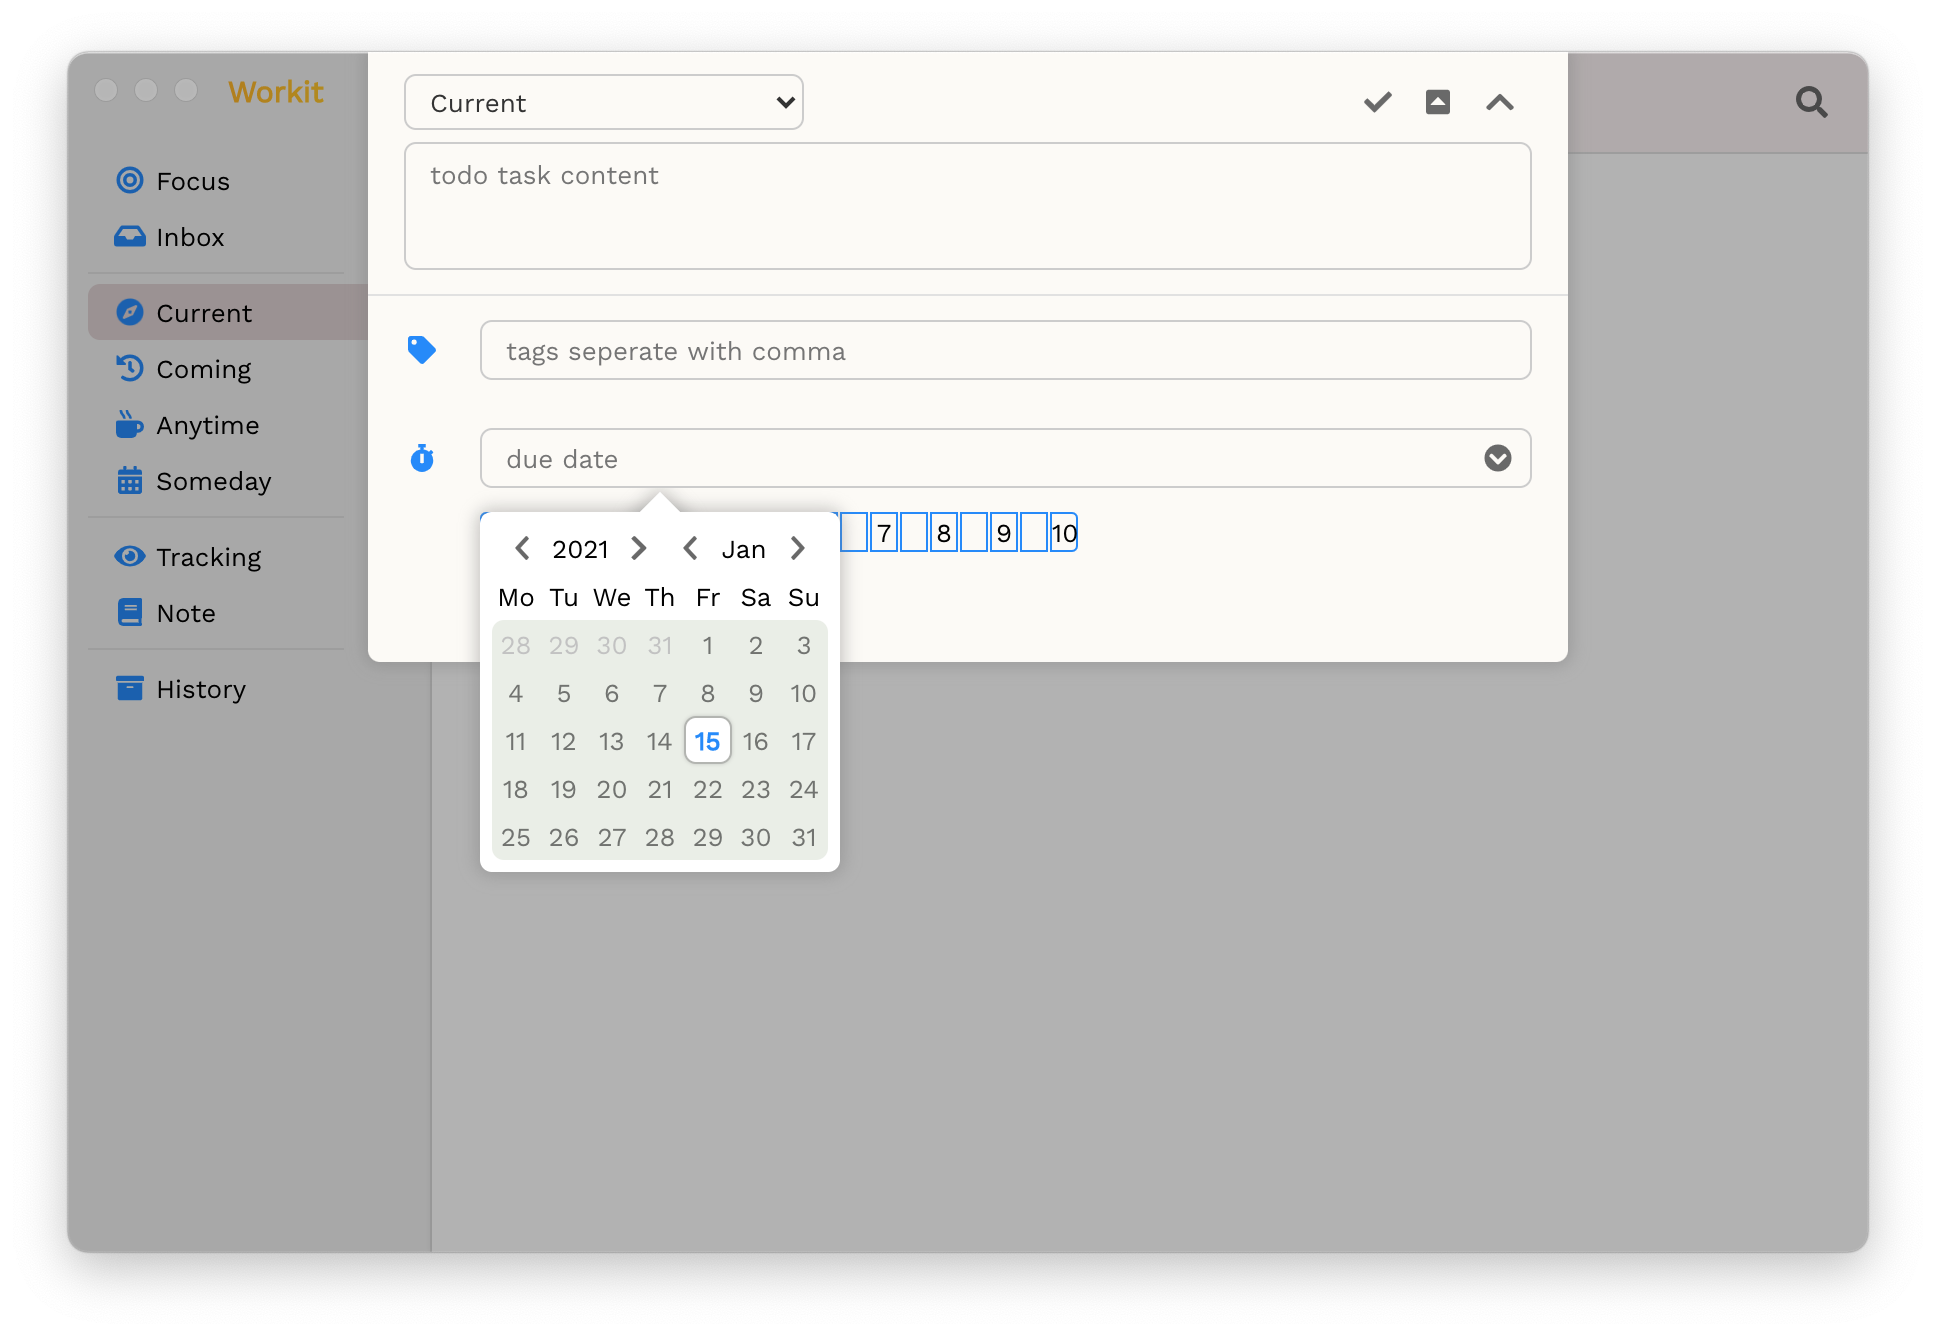
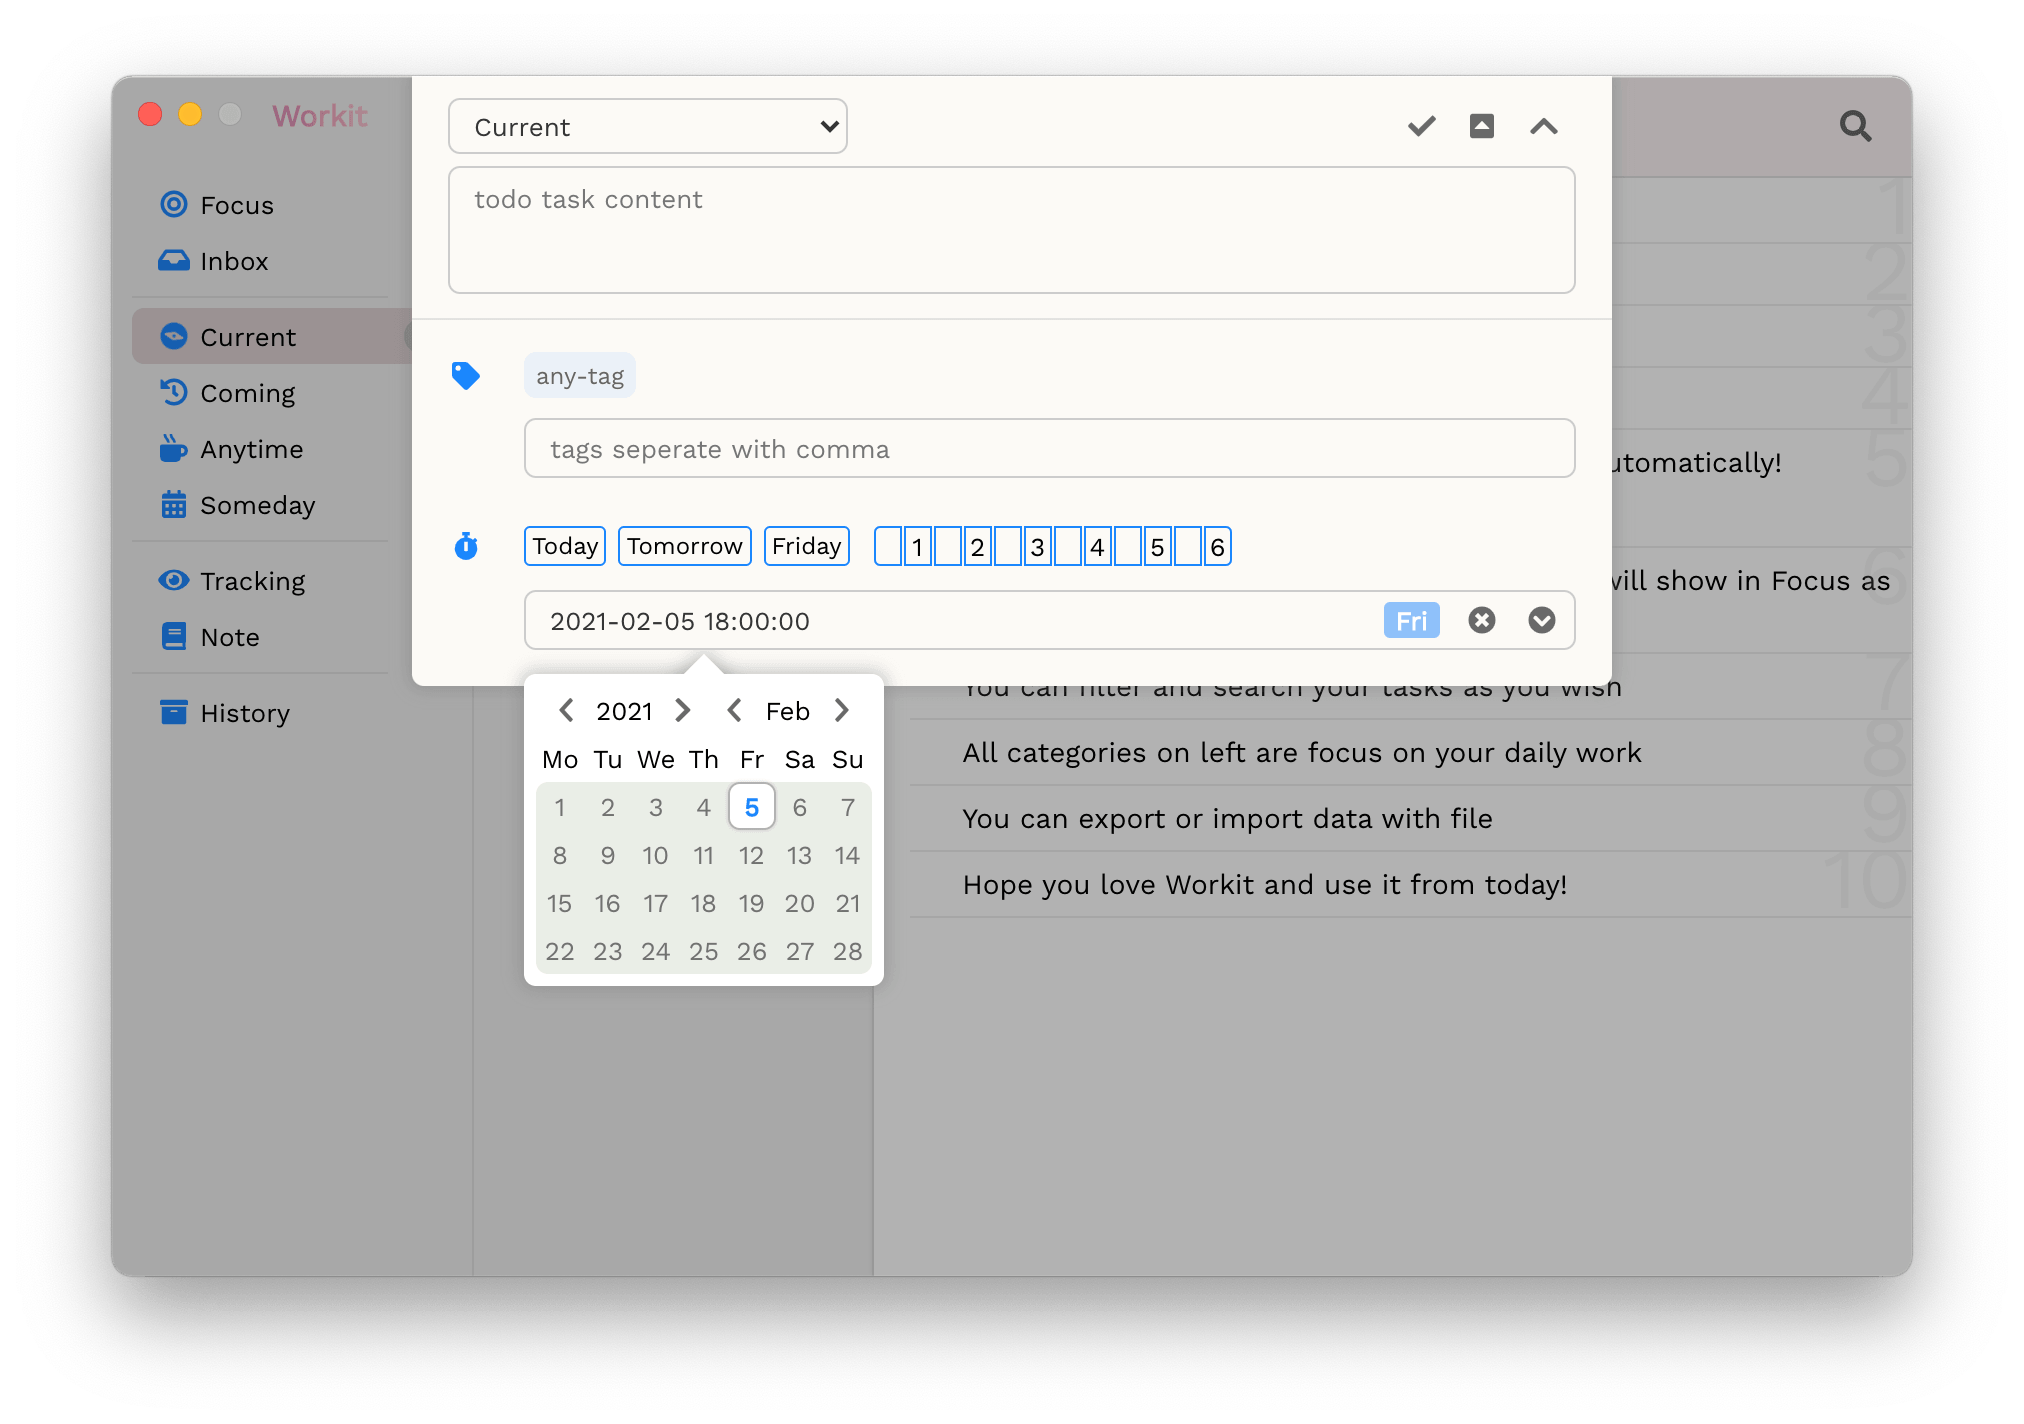
perf: small UE improvements

Changed region(s): [[0.031, 0.0307, 0.9917, 0.9513], [0.4649, 0.6138, 0.7748, 0.6445]]

diff --git a/src/App.vue b/src/App.vue
@@ -43,6 +43,11 @@
               <font-awesome-icon :icon="['fas', 'unlink']" title="Unlink" />
             </div> -->
             <div class="icon-btn btn"
+              v-show="system.tab === 'focus'"
+              @click="goto(item)">
+              <font-awesome-icon :icon="['fas', 'chevron-right']" :title="'Go to ' + item.cat" />
+            </div>
+            <div class="icon-btn btn"
               v-show="item.status === 0 && !item.parentId"
               @click="handleAddSubTask(item)">
               <font-awesome-icon :icon="['fas', 'plus']" title="Add Sub Task" />
@@ -50,22 +55,17 @@
             <div class="icon-btn btn"
               v-show="item.status === 0 && item.parentId"
               @click="becomeMainTask(item)">
-              <font-awesome-icon :icon="['fas', 'eject']" title="Turn into task" />
-            </div>
-            <div class="icon-btn btn lg"
-              v-show="system.tab === 'focus'"
-              @click="goto(item)">
-              <font-awesome-icon :icon="['fas', 'chevron-right']" :title="'Go to ' + item.cat" />
-            </div>
-            <div class="icon-btn btn"
-              v-show="!(item.parentId && item.status === 1)"
-              @click="handleChangeCat($event, item)">
-              <font-awesome-icon :icon="['fas', 'paper-plane']" title="Change Category" />
+              <font-awesome-icon :icon="['fas', 'eject']" title="Become Main Task" />
             </div>
             <div class="icon-btn btn"
               v-show="!(item.parentId && item.status === 1)"
               @click="handleShowEdit(item.cat, item.index)">
               <font-awesome-icon :icon="['fas', 'edit']" title="Edit" />
+            </div>
+            <div class="icon-btn btn"
+              v-show="!(item.parentId && item.status === 1)"
+              @click="handleChangeCat($event, item)">
+              <font-awesome-icon :icon="['fas', 'paper-plane']" title="Change Category" />
             </div>
             <div class="icon-btn btn" @click="handleShowMore($event, item, index)">
               <font-awesome-icon :icon="['fas', 'ellipsis-h']" title="More" />
@@ -886,7 +886,7 @@ export default {
       this.focusIndex = task.index
       let options = [...this.actionOptions]
       if (system.tab === 'focus') {
-        options = options.slice(0, options.length - 2)
+        options = options.filter((o, index) => index !== 1 && index !== 2)
       }
       eventBus.$emit('showPopActions', {
         options,

diff --git a/src/components/AddPanel.vue b/src/components/AddPanel.vue
@@ -62,11 +62,22 @@
             </div>
           </div>
         </div>
-        <div class="row">
+        <div class="row" style="padding-bottom: 0;">
           <div class="icon-image">
             <font-awesome-icon :icon="['fas', 'stopwatch']" />
           </div>
-          <div class="box-input">
+          <div class="box-date-shortcuts">
+            <div class="date-btn" @click="setDueDate('today')">Today</div>
+            <div class="date-btn" @click="setDueDate('tomorrow')">Tomorrow</div>
+            <div class="date-btn" style="margin-right: 12px;" @click="setDueDate('friday')">Friday</div>
+            <div class="date-shortcuts">
+              <div class="cell" :class="[halfDays >= c && 'active']" v-for="(c, index) in 12" :key="index" @mouseover="handleMouseOver(c)" @mouseout="handleMouseOut(c)" @click="handleSetDueDate(c)">{{ c % 2 ? '&nbsp;' : c / 2 }}</div>
+            </div>
+            <div class="date-preview">{{ previewDateText }}</div>
+          </div>
+        </div>
+        <div class="row">
+          <div class="box-input" style="margin-left: 38px;">
             <input class="common-input" id="due-date-input" type="text" placeholder="due date" v-model="dueTime" @keypress.enter="save()">
             <div class="box-btns">
               <div class="weekday-tip">{{ currentWeekday }}</div>
@@ -78,15 +89,6 @@
               </div>
             </div>
           </div>
-        </div>
-        <div class="box-date-shortcuts">
-          <div class="date-btn" @click="setDueDate('today')">Today</div>
-          <div class="date-btn" @click="setDueDate('tomorrow')">Tomorrow</div>
-          <div class="date-btn" style="margin-right: 12px;" @click="setDueDate('friday')">Friday</div>
-          <div class="date-shortcuts">
-            <div class="cell" :class="[halfDays >= c && 'active']" v-for="(c, index) in 12" :key="index" @mouseover="handleMouseOver(c)" @mouseout="handleMouseOut(c)" @click="handleSetDueDate(c)">{{ c % 2 ? '&nbsp;' : c / 2 }}</div>
-          </div>
-          <div class="date-preview">{{ previewDateText }}</div>
         </div>
       </div>
     </div>
@@ -506,7 +508,7 @@ export default {
       }
       .box-date-shortcuts {
         display: flex;
-        padding-left: 56px;
+        width: 526px;
         .date-btn {
           margin-right: 6px;
           height: 18px;

diff --git a/src/components/DatePickerPop.vue b/src/components/DatePickerPop.vue
@@ -39,6 +39,7 @@
 </template>
 
 <script>
+import { ipcRenderer } from 'electron'
 import { sleep } from '@youngbeen/sleep'
 import eventBus from '@/eventBus'
 
@@ -172,6 +173,12 @@ export default {
         this.previewYear = this.year
         this.previewMonth = this.month
         this.show(params)
+      }
+    })
+
+    ipcRenderer.on('sys_cancel', () => {
+      if (this.isShow) {
+        this.hide()
       }
     })
   },

diff --git a/src/models/DictMap.js b/src/models/DictMap.js
@@ -18,7 +18,7 @@ export const cats = [
 export const actions = [
   // { value: 'edit', label: 'Edit' },
   { value: 'detail', label: 'Detail' },
-  { value: 'delete', label: 'Delete' },
   { value: 'btt', label: 'Bring To Top' },
-  { value: 'stb', label: 'Set To Bottom' }
+  { value: 'stb', label: 'Set To Bottom' },
+  { value: 'delete', label: 'Delete' }
 ]
